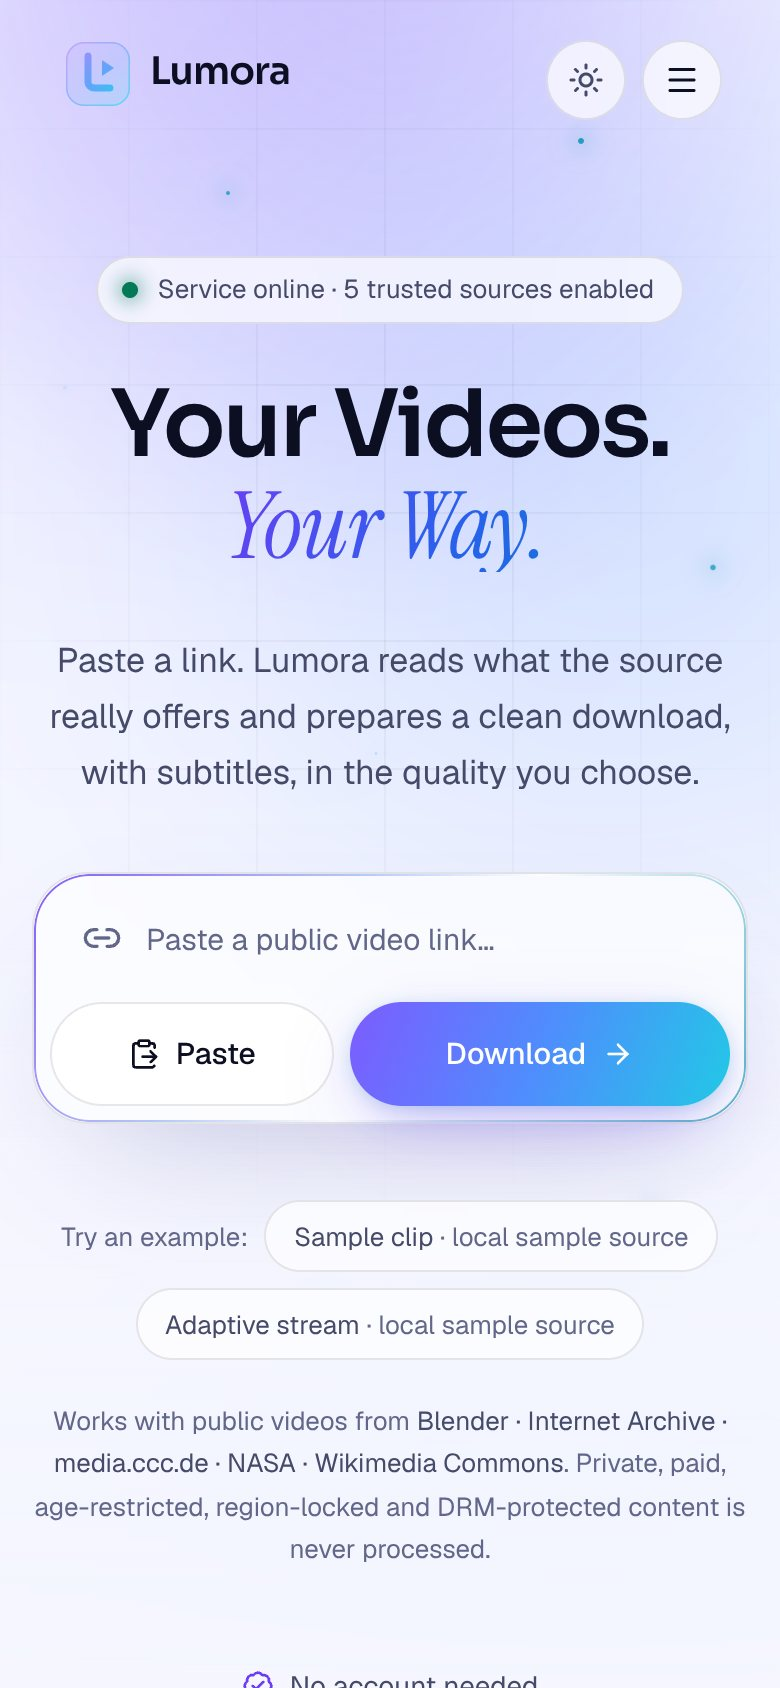
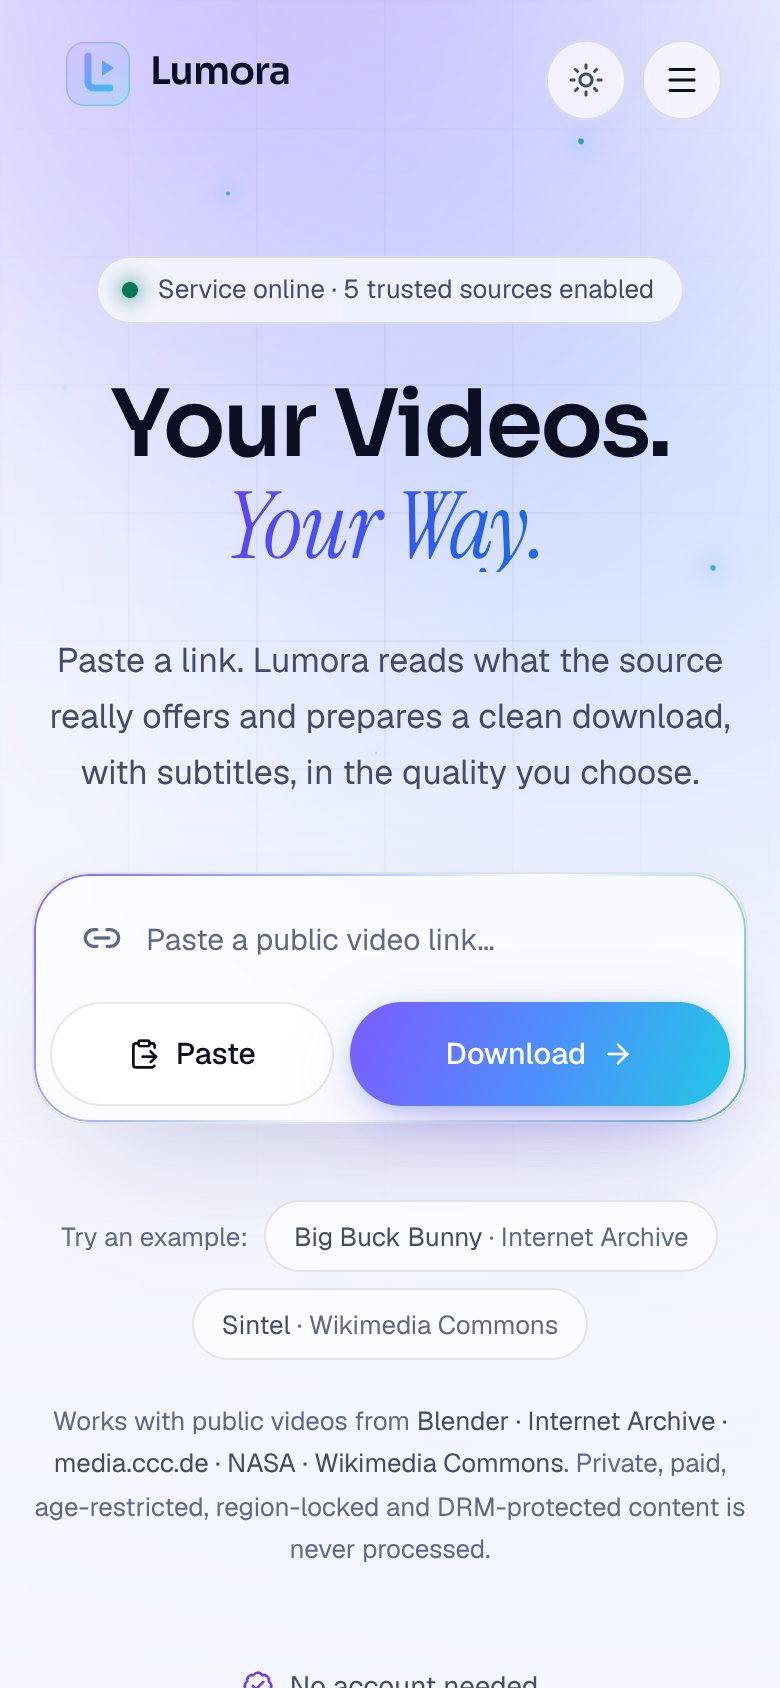
docs: Render free-plan limits, phone screenshot, refreshed screenshots
- Deployment: the blueprint can be created from any branch; what the free
  instance can and cannot do, with the source; what was and was not
  verified.
- Screenshots retaken with the current layout. The home page shots use an
  API with default settings, so they show the default example links.

Changed region(s): [[0.2154, 0.7701, 0.7692, 0.8009], [0.3692, 0.7085, 0.8615, 0.7393]]

diff --git a/README.md b/README.md
@@ -45,6 +45,14 @@ The website is live at **<https://lumora-video.vercel.app>**. It needs an API to
 
 ![An analyzed video with quality and subtitle choices](docs/result.jpg)
 
+<p align="center">
+  <img src="docs/mobile-light.jpg" alt="The Lumora home page on a phone, in the light theme" width="300">
+</p>
+
+<sub>Screenshots of the real application running locally. The analyzed clip comes from the sample source in
+<a href="backend/scripts/sample_source.py"><code>backend/scripts/sample_source.py</code></a>, which is why its
+source reads 127.0.0.1.</sub>
+
 ## Source policy
 
 Out of the box Lumora only accepts links from an **allow list of sources that publish their videos for download
@@ -127,14 +135,24 @@ The API cannot run as serverless functions: it needs FFmpeg, a writable disk, an
 minutes. Use a host that runs a container. [`backend/Dockerfile`](backend/Dockerfile) builds the image and
 [`render.yaml`](render.yaml) describes it for [Render](https://render.com):
 
-1. Merge this branch into `main`.
-2. In the Render dashboard choose **New > Blueprint** and select this repository.
-3. Render builds the image and gives the service an address such as `https://lumora-api.onrender.com`.
+1. In the Render dashboard choose **New > Blueprint**, select this repository and the branch that holds the
+   code (normally `main`).
+2. Render builds the image and gives the service an address such as `https://lumora-api.onrender.com`.
    Open `<address>/health`; it should answer `{"status":"ok", ...}`.
 
-The blueprint is sized for Render's free instance (512 MB of memory): one download at a time, files up to
-512 MB, kept for 15 minutes. These numbers are cautious starting points and have not been tried on Render. A free instance sleeps after 15 idle minutes and takes up to a minute to wake;
-the website shows "Waking up the server" and waits. Raise the limits in `render.yaml` on a larger instance.
+The blueprint asks for Render's **free** instance. That is enough to try Lumora out, and not more. This is
+what [Render documents](https://render.com/docs/free) for it:
+
+- 512 MB of memory and a tenth of a CPU core. An analysis costs a little under one CPU-second (measured
+  locally), so expect it to take around ten seconds there.
+- The service is stopped after 15 minutes without requests and takes about a minute to start again. The
+  website says "Waking up the server" meanwhile and waits for up to two minutes.
+- Render may suspend a free service that moves an unusually large amount of data, and a download service
+  moves a lot. For regular use change `plan` in `render.yaml` to `0.5c-512mb` or larger, or pick another host.
+
+The limits in the blueprint (one download at a time, files up to 512 MB, kept for 15 minutes) are cautious
+starting points. **The blueprint has been checked against Render's documentation but not run on Render.**
+Raise the limits on a larger instance.
 
 Any other container host works the same way (Fly.io, Railway, Cloud Run with a single always-on instance, a
 VPS): build `backend/`, expose the port in `$PORT`, and set at least:
@@ -327,7 +345,7 @@ storage. Each lives in one module (`services/jobs.py`, `services/storage.py`). V
 | --- | --- |
 | "Download service not connected yet" | `VITE_API_BASE_URL` was not set when the site was built. Set it and redeploy. |
 | "Download service unreachable" | The API is down or its address is wrong. Open `<api>/health`. If that works, the website's address is missing from `ALLOWED_ORIGINS`. |
-| "Waking up the server…" for a minute | Normal on hosts that sleep when idle. |
+| "Waking up the server…" for a minute | Normal on hosts that sleep when idle. After two minutes the site gives up and offers "Retry". |
 | "This source isn't enabled on this service" | The link's site is not on the allow list. See [Source policy](#source-policy). |
 | "We couldn't reach the source" | The server has no route to that site, or the site is down. |
 | A source that used to work now fails | Update yt-dlp in `backend/requirements.txt` and redeploy. |
